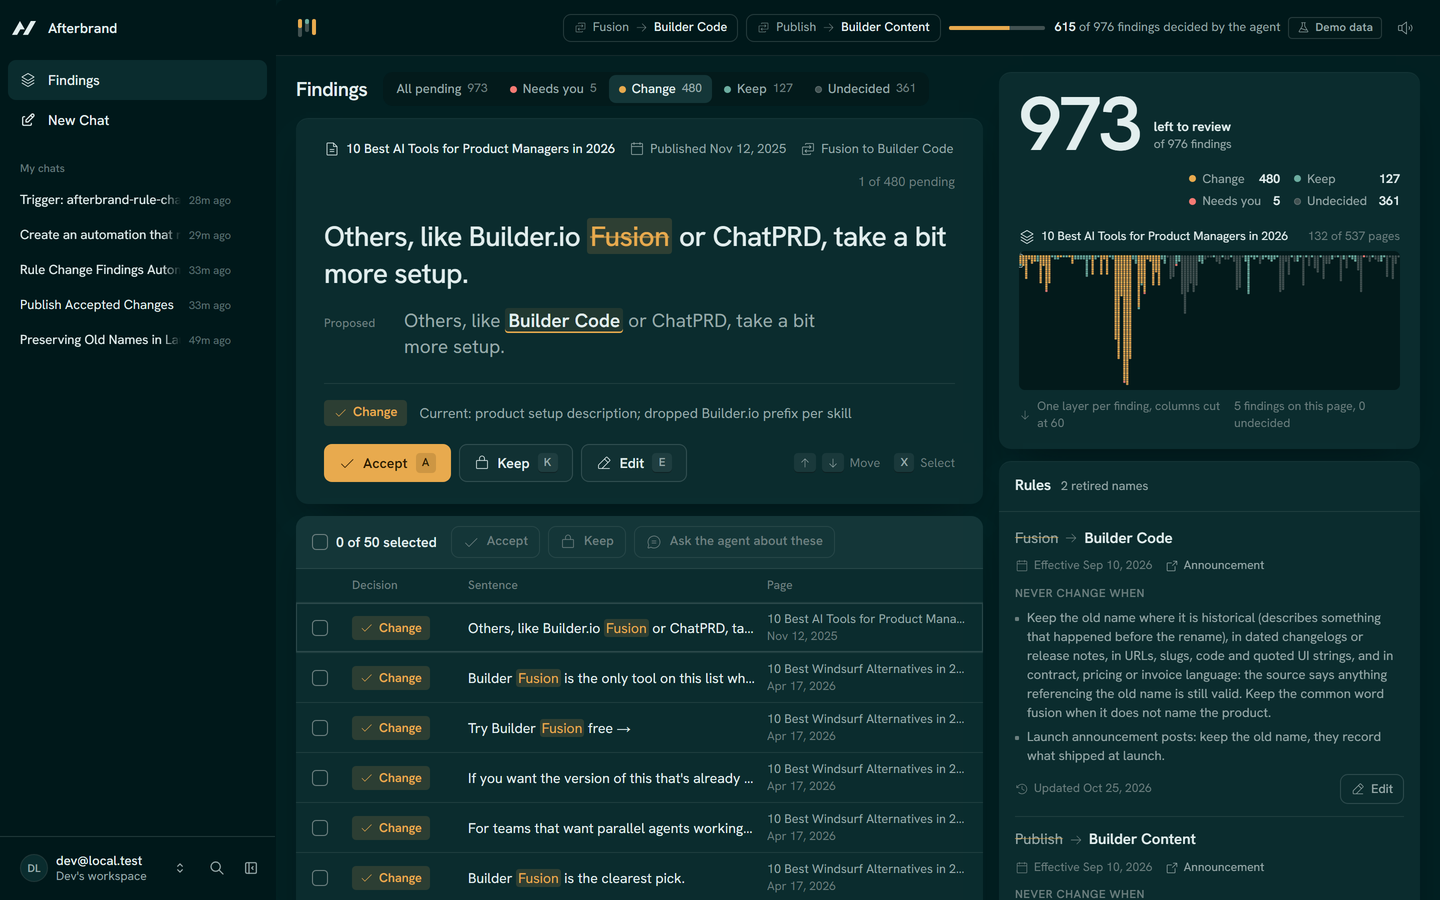
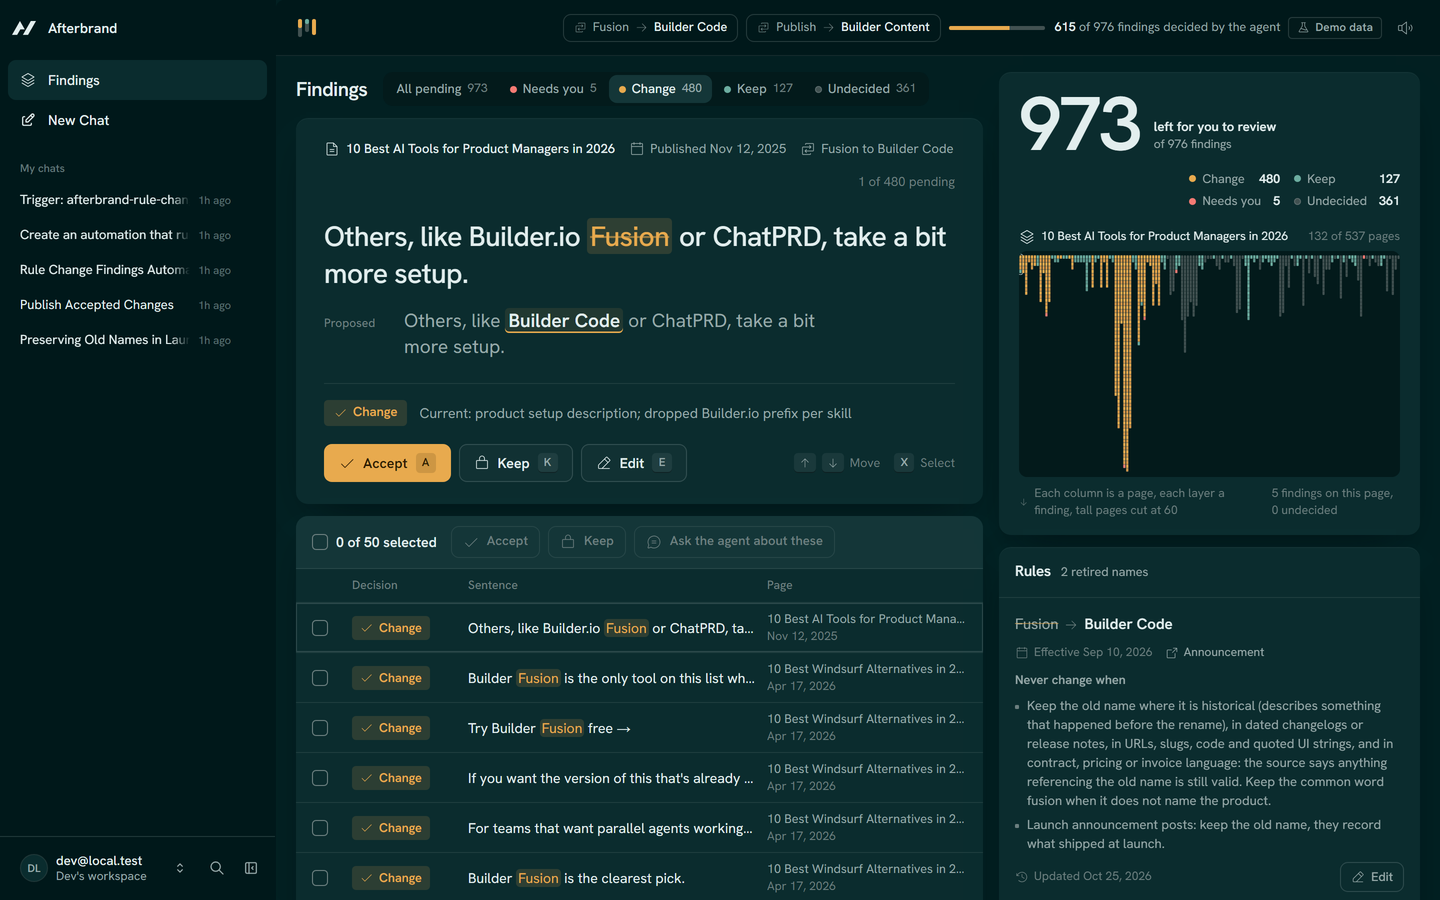
docs: README states the labelers are models next to the headline, what the eval does and does not show, current guards

diff --git a/README.md b/README.md
@@ -11,14 +11,14 @@ Built for the Builder.io Agent-Native Hackathon (Oct 2026) on Agent-Native 0.220
 ![The findings queue: one finding in focus with its decision and reason, the list below, the library as a strip of page columns on the right, and the rules with their exceptions](docs/screenshots/queue.png)
 
 1. **Rules.** You write the retired name, its replacement, the date it took effect and the exceptions in plain language ("keep it in dated changelogs"). The agent edits the same rules through the same action.
-2. **Decisions.** Code finds every sentence that mentions a retired name. The agent reads each one in context and decides Change, Keep or Needs you, with a one-line reason and a rewrite. Code checks every rewrite before it can be accepted: the new name is there, nothing outside the mention moved, no URL, code span or quote was touched.
+2. **Decisions.** Code finds every sentence that mentions a retired name. The agent reads each one in context and decides Change, Keep or Needs you, with a one-line reason and a rewrite. Code checks every rewrite before it can be accepted: the new name is there, nothing outside the mention moved, no URL, code span or quote was touched, and no link or markup was added.
 3. **Review.** You accept, keep or edit each finding, alone or in bulk. Select a few and tell the agent "these are launch posts, never change launch posts": it adds the exception to the rule, finds every other launch post, and re-decides them while you watch. Nothing is published until a person approves it.
 
 ## Why not find-and-replace
 
 Every mention needs a decision. On Builder's blog, "Fusion" is the current product in one sentence and a 2024 launch in the next; "Publish" is the old product name and also the verb on every other page.
 
-We measured it on 140 mentions from 70 posts (the frozen test split), labeled by two labelers who never saw the agent's output.
+We measured it on 140 mentions from 70 posts (the frozen test split), labeled by two language models (Claude Opus and Claude Fable) working separately, following a written guideline, without seeing the agent's output.
 
 | System | Wrong edits (should stay, was changed) | Misses (should change, was kept) | Sent to a person |
 |---|---|---|---|
@@ -30,6 +30,12 @@ We measured it on 140 mentions from 70 posts (the frozen test split), labeled by
 Find-and-replace would change 35 of 35 mentions that should stay. Afterbrand changed 0 of 35 in each of three runs, and sent 5 to 7 of 140 to a person.
 
 The known failure: it sends headings and bare labels ("Fusion vs.", "Prompt to build: Fusion") to a person when the labels say they should change. Of the 5 to 7 it sent per run, 2 were mentions the labelers also found ambiguous.
+
+What this shows and what it does not:
+
+- Against the strongest regex the difference is 9 sentences: the regex edits the 5 sentences of the rename announcement that must name the old product, a 2025 launch post and 2 quoted UI labels, and keeps 1 sentence that describes the current product.
+- 32 of the 35 mentions that should stay are "Publish", mostly the verb; only 3 are "Fusion". All 102 that should change are "Fusion". So the hard historical-versus-current call on Fusion is tested by few items, and the Publish rule is never tested on a mention that should change.
+- Zero errors in 35 still leaves room: the 95% upper bound (Wilson) on the wrong-edit rate is about 10%, and about 56% on the 3 Fusion mentions alone. For misses, 0 of 102 puts the bound at about 4%.
 
 - Gold labels: 102 change, 35 keep, 3 unsure. The two labelers agreed on 196 of 200 mentions (Cohen's kappa 0.951). The 4 they disagreed on count as unsure until adjudicated.
 - The regex is what a competent engineer writes in an afternoon: exact capitalized name as a whole word, never inside a URL, code span or quoted string, and "Publish" never as the first word of a sentence. With the date filter (skip posts from before the rename) it misses every mention, because all but 18 of 976 mentions are in older posts that still describe the current product. Without the filter it is the strongest baseline, and we report both.
@@ -44,19 +50,19 @@ Every operation is one `defineAction`. The screen, the agent, Claude Code over M
 
 | Action | Screen | Agent | MCP | What it guards |
 |---|---|---|---|---|
-| `list-rules`, `upsert-rule` | Rules panel | Turns a plain-language instruction into an exception | `list-rules` | Refuses to save over a rule that changed while you edited it |
+| `list-rules`, `upsert-rule` | Rules panel | Turns a plain-language instruction into an exception | `list-rules` | The agent may append an exception on its own; creating, renaming, redating, disabling a rule or rewriting its exceptions needs approval. Refuses to save over a rule that changed while you edited it |
 | `find-candidates` | | After a rule changes | | Deterministic: finds sentences, decides nothing |
 | `record-decisions` | | Decides in batches of 50 | | Rejects a rewrite that fails the verifier |
 | `list-findings`, `get-library-overview`, `get-page`, `list-pages` | Queue, page view | Reads the queue | Yes | Read only |
 | `accept-findings` | Accept, bulk accept | Only after approval (`needsApproval`) | | Keep and Needs you cannot be applied; read-only pages reject every write |
 | `reject-findings`, `edit-finding`, `revert-change` | Keep, Edit, Undo | Yes | | Every applied change can be undone until publish |
-| `publish-changes` | Publish card | Only after approval (`needsApproval`) | | Publishes accepted changes only, as Markdown per page plus a manifest |
-| `set-page-read-only` | Page view | Yes | | Locks a page against every caller |
+| `publish-changes` | Publish card | Only after approval (`needsApproval`) | | Publishes accepted changes only, never on a read-only page, as Markdown per page plus a manifest |
+| `set-page-read-only` | Page view | Locks freely; unlocking needs approval | | Accept, undo and publish all refuse a read-only page, whoever calls |
 | `view-screen` | Writes the selection to app state | Reads what you selected | | |
 
 - **Selection as context.** The rows you select are written to application state. When you say "these", the agent reads them with `view-screen`.
 - **Change cards with undo.** When the agent accepts or keeps findings, the chat shows a change card. Its Undo calls the same action in undo mode, and the queue updates live (`useDbSync` with realtime on the queue and page routes).
-- **Approval before anything irreversible.** Accepting and publishing need a person's approval when the agent asks for them. Undo does not.
+- **Approval before anything irreversible.** When the agent asks, accepting, publishing, unlocking a page and any rule edit beyond appending an exception need a person's approval. Undo does not.
 - **Automation.** `upsert-rule` emits `afterbrand.rule.changed`. The agent created an automation from a chat request that listens for it and decides the findings the change left pending.
 - **MCP.** `/mcp` exposes the five read actions to clients such as Claude Code ("How many Fusion mentions are still pending?"). Writes stay in the app, where the approvals and undo cards are.
 - **Agent skill.** The decision rules are a runtime skill (`.agents/skills/afterbrand-decide/SKILL.md`) that the chat agent and the headless eval read alike.
@@ -90,6 +96,9 @@ The fetch reads today's sitemap, so your library can differ from the Oct 25, 202
 - The agent can be wrong. That is why every change waits in the queue for a person, and why the eval reports its errors instead of a single score.
 - Two strata are small because the blog is: only 5 Fusion and 13 Publish mentions are in posts published after the rename. All 18 are in the sample.
 - Both labelers are language models (Claude Opus and Claude Fable), different from the model under test (Claude Sonnet 5.5), and they followed the same guideline the agent's skill encodes. A rule both of them read the same wrong way would not show up as an error.
+- The sample comes from the sentences the mention finder found, so mentions it misses (a name split across a line break, for example) are invisible to every system in the eval.
+- The 4 mentions the labelers disagreed on are still waiting for a person to adjudicate them; they count as unsure.
+- The approval card for a batch accept does not show a before and after diff of each finding.
 - Afterbrand only knows the names in its rules and the pages in its library. Publishing writes a patch; it does not write to a CMS yet.
 - Undo restores the first identical sentence on a page if the same sentence appears twice, and a multi-change undo is validated up front but not wrapped in a transaction.
 - One agent decides in batches. Splitting a sweep across agent teams is not built.
